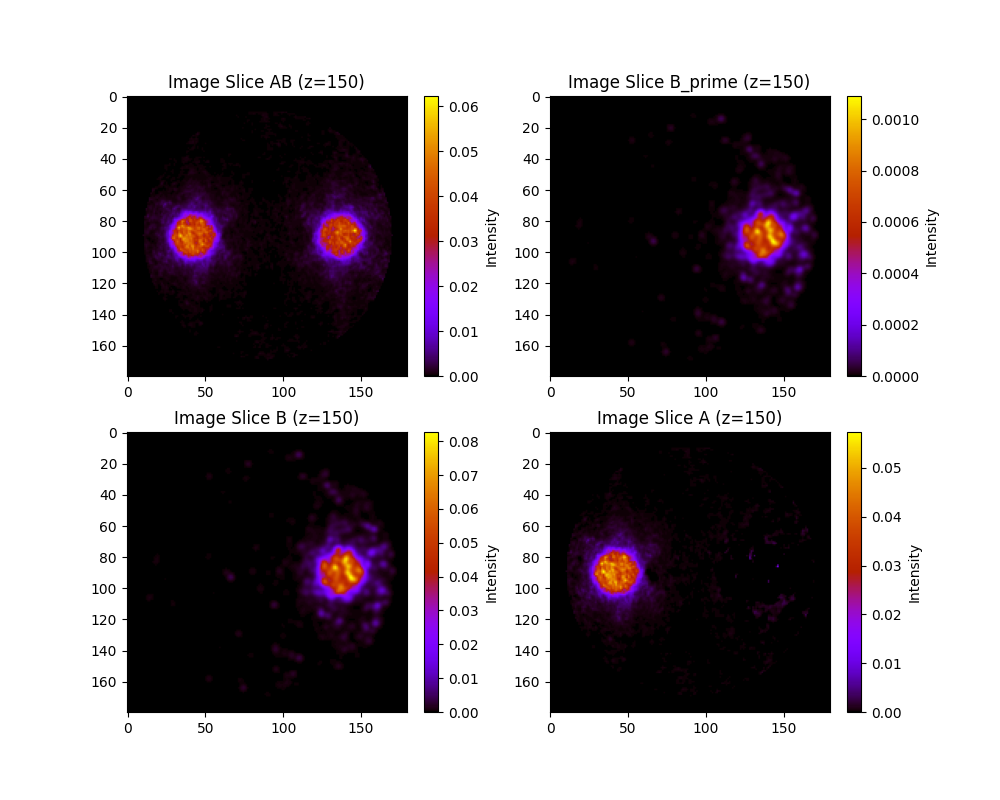
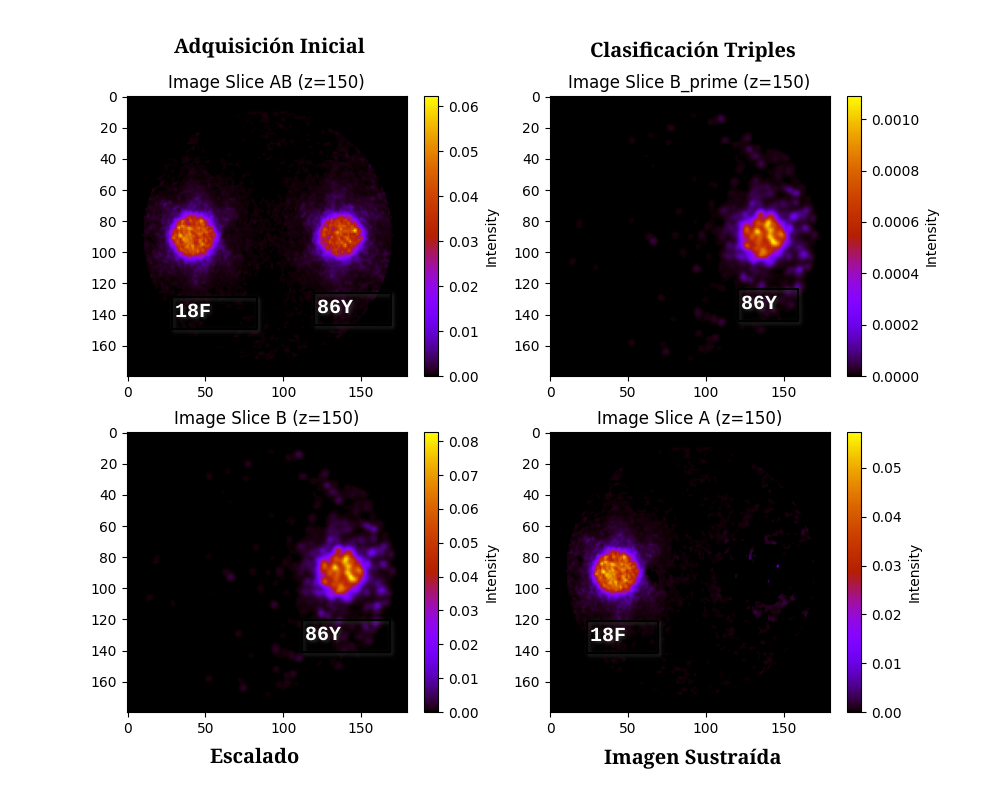
final

diff --git a/presentacion/presentacion.tex b/presentacion/presentacion.tex
@@ -332,35 +332,6 @@
     % NOTA DEL PONENTE: Modelamos con precisión submilimétrica los componentes clave. El Bruker Si78 se modeló como una geometría octogonal de tres anillos con cristales centelleadores de LYSO. El fantoma Derenzo digital replica el fantoma experimental con sus 6 sectores de varillas. Esta geometría se definió de forma visual y se exportó a cuádricas analíticas.
 \end{frame}
 
-% --- Diapositiva 8b: Métricas de Calidad de Imagen ---
-\begin{frame}{Métricas de Calidad de Imagen}
-    \begin{columns}[c]
-        \begin{column}{0.52\textwidth}
-            \colorbox{mcmPrimaryMuted}{\strut\textcolor{mcmPrimary}{\bfseries\scriptsize CONTRASTE}}
-            \enskip \textbf{Coeficiente de Recuperación}
-            \[ \text{CRC} = \frac{\textcolor{mcmPrimary}{\mu_{\text{hot}}}}{\mu_{\text{bkg}}} - 1 \]
-
-            \vspace{0.4cm}
-
-            \colorbox{mcmExampleBg}{\strut\textcolor{mcmExample}{\bfseries\scriptsize RUIDO}}
-            \enskip \textbf{Relación Señal-Ruido}
-            \[ \text{SNR} = \frac{\mu_{\text{bkg}}}{\textcolor{mcmExample}{\sigma_{\text{bkg}}}} \]
-        \end{column}
-        \begin{column}{0.44\textwidth}
-            \centering
-            \includegraphics[height=4cm,keepaspectratio]{roi_amide.png}
-            \vskip0.1cm
-            {\scriptsize\color{mcmBlack!65} Figura 8. ROIs de varillas y fondo en AMIDE.\par}
-        \end{column}
-    \end{columns}
-    \vspace{0.4cm}
-    \centering
-    {\scriptsize\color{mcmBlack!60}
-        \boldmath\textcolor{mcmPrimary}{$\mu_{\text{hot}}$}\unboldmath: Media en varillas (Señal) \quad \textbullet \quad
-        $\mu_{\text{bkg}}$, \boldmath\textcolor{mcmExample}{$\sigma_{\text{bkg}}$}\unboldmath: Media y Desviación Estándar en el fondo (Ruido)
-    }
-    % NOTA DEL PONENTE: Para evaluar la calidad de las imágenes reconstruidas de forma cuantitativa, utilizamos dos métricas principales: el Coeficiente de Recuperación de Contraste (CRC) y la Relación Señal-Ruido (SNR). El CRC compara la actividad media medida en las varillas calientes con la del fondo, restándole uno. El SNR mide el nivel de ruido en una región de fondo homogénea dividiendo su media por la desviación estándar. Como apoyo visual, a la derecha se muestran las Regiones de Interés (ROIs) cilíndricas que dibujamos sobre el fantoma Derenzo en el software AMIDE para realizar estas medidas de forma reproducible.
-\end{frame}
 
 % --- Diapositiva 9 ---
 \begin{frame}{Simulación Monte Carlo: Definiciones Clave}
@@ -498,6 +469,37 @@ for (size_t k = 0; k < nextSingles.size(); ++k) {
     \vspace{0.1cm}
     \hfill {\tiny\color{mcmBlack!40} [Andreyev et al., 2011]}
     % NOTA DEL PONENTE: Aquí muestro la lógica del algoritmo de multiplexado. Buscamos la pareja convencional de 511 keV. Si en su ventana temporal detectamos un tercer fotón con energía superior a 650 keV, lo clasificamos como triple. Este umbral alto es crítico: minimiza la inclusión de prompt gammas que han sufrido dispersión Compton, las cuales degradarían la resolución espacial. Finalmente, guardamos dos datasets independientes en modo lista.
+\end{frame}
+
+
+% --- Diapositiva 8b: Métricas de Calidad de Imagen ---
+\begin{frame}{Métricas de Calidad de Imagen}
+    \begin{columns}[c]
+        \begin{column}{0.52\textwidth}
+            \colorbox{mcmPrimaryMuted}{\strut\textcolor{mcmPrimary}{\bfseries\scriptsize CONTRASTE}}
+            \enskip \textbf{Coeficiente de Recuperación}
+            \[ \text{CRC} = \frac{\textcolor{mcmPrimary}{\mu_{\text{hot}}}}{\mu_{\text{bkg}}} - 1 \]
+
+            \vspace{0.4cm}
+
+            \colorbox{mcmExampleBg}{\strut\textcolor{mcmExample}{\bfseries\scriptsize RUIDO}}
+            \enskip \textbf{Relación Señal-Ruido}
+            \[ \text{SNR} = \frac{\mu_{\text{bkg}}}{\textcolor{mcmExample}{\sigma_{\text{bkg}}}} \]
+        \end{column}
+        \begin{column}{0.44\textwidth}
+            \centering
+            \includegraphics[height=4cm,keepaspectratio]{roi_amide.png}
+            \vskip0.1cm
+            {\scriptsize\color{mcmBlack!65} Figura 8. ROIs de varillas y fondo en AMIDE.\par}
+        \end{column}
+    \end{columns}
+    \vspace{0.4cm}
+    \centering
+    {\scriptsize\color{mcmBlack!60}
+        \boldmath\textcolor{mcmPrimary}{$\mu_{\text{hot}}$}\unboldmath: Media en varillas (Señal) \quad \textbullet \quad
+        $\mu_{\text{bkg}}$, \boldmath\textcolor{mcmExample}{$\sigma_{\text{bkg}}$}\unboldmath: Media y Desviación Estándar en el fondo (Ruido)
+    }
+    % NOTA DEL PONENTE: Para evaluar la calidad de las imágenes reconstruidas de forma cuantitativa, utilizamos dos métricas principales: el Coeficiente de Recuperación de Contraste (CRC) y la Relación Señal-Ruido (SNR). El CRC compara la actividad media medida en las varillas calientes con la del fondo, restándole uno. El SNR mide el nivel de ruido en una región de fondo homogénea dividiendo su media por la desviación estándar. Como apoyo visual, a la derecha se muestran las Regiones de Interés (ROIs) cilíndricas que dibujamos sobre el fantoma Derenzo en el software AMIDE para realizar estas medidas de forma reproducible.
 \end{frame}
 
 % =====================================================================